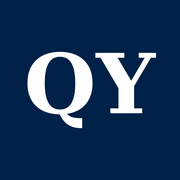
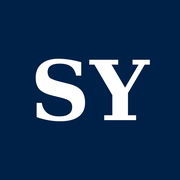
Rename site, add Computation page, rename Funding
Show the name as Simon (Qiming) Yuan. Return to a white header with
Oxford blue as the accent. Move Computation from the sidebar to its own
page in the menu, with GitLab projects, open data and tools. Rename
Funding to Grants and awards, keeping /funding/ as a redirect. Add
Google Scholar and CINN profile links.

Claude-Session: https://claude.ai/code/session_01WwSe1ZcJU3nppAJUfJvFwn

Changed region(s): [[0.1389, 0.2778, 0.8889, 0.7222]]

diff --git a/_sass/_custom.scss b/_sass/_custom.scss
@@ -30,6 +30,7 @@ $measure    : 43rem;     // comfortable line length for the content column
 body {
   color: $ink;
   font-family: $font-body;
+  border-top: 4px solid $accent;
   -webkit-font-smoothing: antialiased;
 }
 
@@ -63,8 +64,8 @@ button:focus-visible {
    ========================================================================== */
 
 .masthead {
-  border-bottom: 0;
-  background: $accent;
+  border-bottom: 1px solid $rule;
+  background: #fff;
 
   &__inner-wrap {
     max-width: $page-max;
@@ -74,21 +75,17 @@ button:focus-visible {
 }
 
 .greedy-nav {
-  background: transparent;
-
   a {
     position: relative;
-    margin: 0 1.1rem;
-    color: rgba(#fff, 0.78);
+    margin: 0 1rem;
+    color: $slate;
     font-size: 0.95em;
     font-weight: 500;
 
-    &:hover { color: #fff; }
-
-    &:focus-visible { outline-color: #fff; }
+    &:hover { color: $accent; }
 
     &.is-current {
-      color: #fff;
+      color: $accent;
 
       &:after {
         content: "";
@@ -97,14 +94,14 @@ button:focus-visible {
         right: 0;
         bottom: 0.1rem;
         height: 2px;
-        background: #fff;
+        background: $accent;
       }
     }
   }
 
   .visible-links li:first-child a {
-    margin-right: 1.6rem;
-    color: #fff;
+    margin-right: 1.4rem;
+    color: $accent;
     font-family: $font-head;
     font-size: 1.15em;
     font-weight: 600;
@@ -112,22 +109,15 @@ button:focus-visible {
   }
 
   button {
-    background-color: rgba(#fff, 0.14);
+    background-color: $accent;
     border-radius: 3px;
-  }
-
-  .navicon,
-  .navicon:before,
-  .navicon:after {
-    background: #fff;
   }
 
   .hidden-links {
     border-color: $rule;
     box-shadow: 0 8px 24px rgba($ink, 0.12);
 
-    a { margin: 0; padding: 0.6rem 1rem; color: $ink; }
-    a:hover { color: $accent-dark; }
+    a { margin: 0; padding: 0.6rem 1rem; }
     a.is-current:after { display: none; }
   }
 }
@@ -335,20 +325,6 @@ button:focus-visible {
 
     &:hover { text-decoration-color: $accent-dark; }
   }
-
-  .sidebar__repos {
-    li { margin-bottom: 0.6rem; }
-
-    a {
-      color: $ink;
-      font-weight: 500;
-      text-decoration: none;
-
-      &:hover { color: $accent; text-decoration: underline; }
-    }
-
-    span { display: block; }
-  }
 }
 
 
@@ -545,6 +521,38 @@ button:focus-visible {
 // the short list on the home page has no year column
 .page__content > .pub-list {
   margin-bottom: 1.2rem;
+}
+
+
+/*
+   Code repositories (Computation page)
+   ========================================================================== */
+
+.page__content .repo-list {
+  margin: 0 0 1.1rem;
+  padding: 0;
+  list-style: none;
+
+  &:empty { display: none; }
+
+  li {
+    margin: 0;
+    padding: 0.75rem 0;
+    border-top: 1px solid $rule;
+
+    &:first-child { border-top: 0; padding-top: 0.25rem; }
+  }
+
+  a {
+    font-weight: 500;
+  }
+
+  span {
+    display: block;
+    margin-top: 0.1rem;
+    color: $slate;
+    font-size: 0.9em;
+  }
 }
 
 

diff --git a/_includes/gitlab-projects.html b/_includes/gitlab-projects.html
@@ -1,0 +1,40 @@
+{% assign comp = site.data.computation %}
+{% if comp.repos and comp.repos.size > 0 %}
+<ul class="repo-list">
+  {% for r in comp.repos %}
+    <li><a href="{{ r.url }}">{{ r.name }}</a>{% if r.description %}<span>{{ r.description }}</span>{% endif %}</li>
+  {% endfor %}
+</ul>
+{% else %}
+<ul class="repo-list" id="gitlab-repos"
+    data-api="{{ comp.gitlab_url }}/api/v4/users/{{ comp.gitlab_user }}/projects?order_by=last_activity_at&amp;per_page={{ comp.max_repos | default: 12 }}"
+    data-base="{{ comp.gitlab_url }}/"></ul>
+<script>
+  // Lists public GitLab projects. If GitLab can't be reached, only the links below the list remain.
+  (function () {
+    var list = document.getElementById("gitlab-repos");
+    if (!list || !window.fetch) { return; }
+    var base = list.getAttribute("data-base");
+    fetch(list.getAttribute("data-api"))
+      .then(function (r) { return r.ok ? r.json() : []; })
+      .then(function (projects) {
+        if (!Array.isArray(projects)) { return; }
+        projects.forEach(function (p) {
+          if (!p || typeof p.web_url !== "string" || p.web_url.indexOf(base) !== 0) { return; }
+          var li = document.createElement("li");
+          var a = document.createElement("a");
+          a.href = p.web_url;
+          a.textContent = p.name || p.path;
+          li.appendChild(a);
+          if (p.description) {
+            var d = document.createElement("span");
+            d.textContent = p.description;
+            li.appendChild(d);
+          }
+          list.appendChild(li);
+        });
+      })
+      .catch(function () {});
+  })();
+</script>
+{% endif %}

diff --git a/_includes/author-profile.html b/_includes/author-profile.html
@@ -28,6 +28,9 @@
       {% if author.employer %}
         <li><i class="fa fa-fw fa-map-marker" aria-hidden="true"></i> {{ author.employer }}</li>
       {% endif %}
+      {% if author.cinn %}
+        <li><a href="{{ author.cinn }}"><i class="fas fa-fw fa-university" aria-hidden="true"></i> CINN profile</a></li>
+      {% endif %}
       {% if author.uri %}
         <li><a href="{{ author.uri }}"><i class="fas fa-fw fa-link" aria-hidden="true"></i> {{ site.data.ui-text[site.locale].website_label | default: "Website" }}</a></li>
       {% endif %}

diff --git a/_includes/sidebar.html b/_includes/sidebar.html
@@ -2,7 +2,7 @@
 
 {% if page.author_profile or layout.author_profile or page.sidebar %}
   <div class="sidebar sticky">
-  {% if page.author_profile or layout.author_profile %}{% include author-profile.html %}{% include sidebar-funding.html %}{% include sidebar-computation.html %}{% endif %}
+  {% if page.author_profile or layout.author_profile %}{% include author-profile.html %}{% include sidebar-funding.html %}{% endif %}
   {% if page.sidebar %}
     {% for s in page.sidebar %}
       {% if s.image %}

diff --git a/_includes/sidebar-funding.html b/_includes/sidebar-funding.html
@@ -1,10 +1,10 @@
 {% include base_path %}
 <div class="sidebar__block sidebar__funding">
-  <h3 class="sidebar__block-title">Funding</h3>
+  <h3 class="sidebar__block-title">Grants and awards</h3>
   <ul>
     {% for f in site.data.funders %}
       <li>{{ f.name }}</li>
     {% endfor %}
   </ul>
-  <a class="sidebar__block-more" href="{{ base_path }}/funding/">All grants and awards</a>
+  <a class="sidebar__block-more" href="{{ base_path }}/grants-and-awards/">All grants and awards</a>
 </div>

diff --git a/_pages/computation.md b/_pages/computation.md
@@ -1,0 +1,30 @@
+---
+layout: single
+title: "Computation"
+permalink: /computation/
+author_profile: true
+---
+
+<p class="lead">As Computational Technical Expert at CINN, I support the computational and methodological work behind the centre's neuroimaging and brain stimulation research. This page collects my code, open data and the tools I work with.</p>
+
+Code repositories
+------
+
+{% include gitlab-projects.html %}
+
+My code is on the [University of Reading GitLab]({{ site.author.gitlab }}) and on [GitHub](https://github.com/{{ site.author.github }}).
+
+Open data and code
+------
+
+* **Speech adaptation and tDCS.** Preregistration, data and analysis code for the brain stimulation study published in *Cortex* (2025): [osf.io/9bswe](https://osf.io/9bswe/).
+* **Speech tracking in bilinguals.** Preregistration for the EEG study of continuous speech tracking in noise, published in *Brain and Language* (2022): [osf.io/xyqfr](https://osf.io/xyqfr/).
+* **Chinese characters and words database.** A database of ~3,000 characters and ~2,200 words from primary-school textbooks, described in [*Behavior Research Methods* (2024)](https://doi.org/10.3758/s13428-023-02214-1).
+
+Methods and tools
+------
+
+* **Neuroimaging analysis:** task and resting-state fMRI, structural MRI, multivoxel pattern analysis (MVPA), effective-connectivity network modelling (euSEM, dynamic causal modelling), EEG (continuous neural tracking, ERPs)
+* **Software and programming:** MATLAB, Python, R, FSL, SPM
+* **Pipelines:** reusable, version-controlled analysis pipelines for MRI data
+* **Open science:** preregistration, code and data sharing

diff --git a/README.md b/README.md
@@ -1,6 +1,6 @@
 # academic_web
 
-Personal academic website of Qiming (Simon) Yuan, built with Jekyll on the
+Personal academic website of Simon (Qiming) Yuan, built with Jekyll on the
 [academicpages](https://github.com/academicpages/academicpages.github.io) template
 and hosted on GitHub Pages at <https://yuanqm822.github.io/academic_web/>.
 
@@ -13,9 +13,10 @@ and hosted on GitHub Pages at <https://yuanqm822.github.io/academic_web/>.
 | Home page text | `_pages/about.md` |
 | Research page | `_pages/research.md` |
 | CV | `_pages/cv.md` |
-| Funding page | `_pages/funding.md` |
+| Grants and awards page | `_pages/grants-and-awards.md` |
+| Computation page | `_pages/computation.md` |
 | Funders listed in the sidebar | `_data/funders.yml` |
-| "Computation" block in the sidebar (GitLab projects) | `_data/computation.yml` |
+| GitLab projects on the Computation page | `_data/computation.yml` |
 | Colours, fonts and layout | `_sass/_custom.scss` (the "Tokens" block at the top) |
 | Top menu | `_data/navigation.yml` |
 

diff --git a/_pages/grants-and-awards.md b/_pages/grants-and-awards.md
@@ -1,8 +1,10 @@
 ---
 layout: single
-title: "Funding"
-permalink: /funding/
+title: "Grants and awards"
+permalink: /grants-and-awards/
 author_profile: true
+redirect_from:
+  - /funding/
 ---
 
 <p class="lead">My research has been supported by collaboration grants I led or co-led between the University of Oxford and Beijing Normal University, and by scholarships and awards from the funders below.</p>
